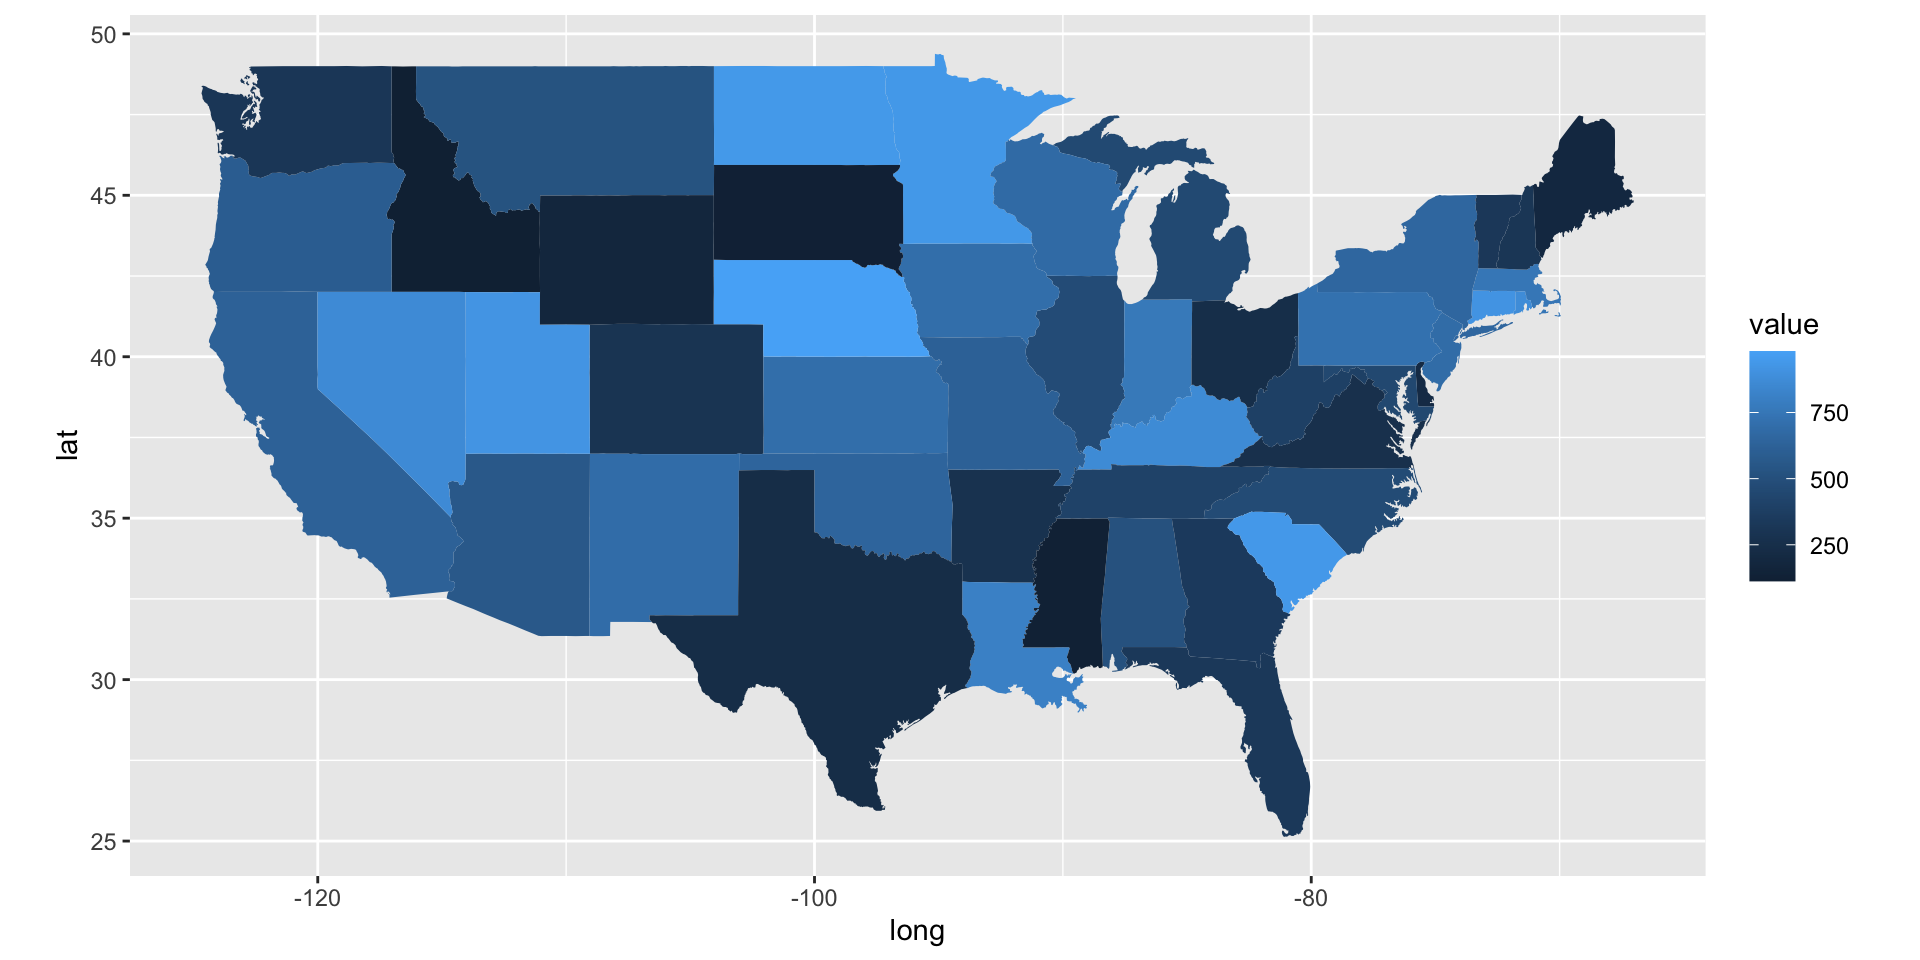
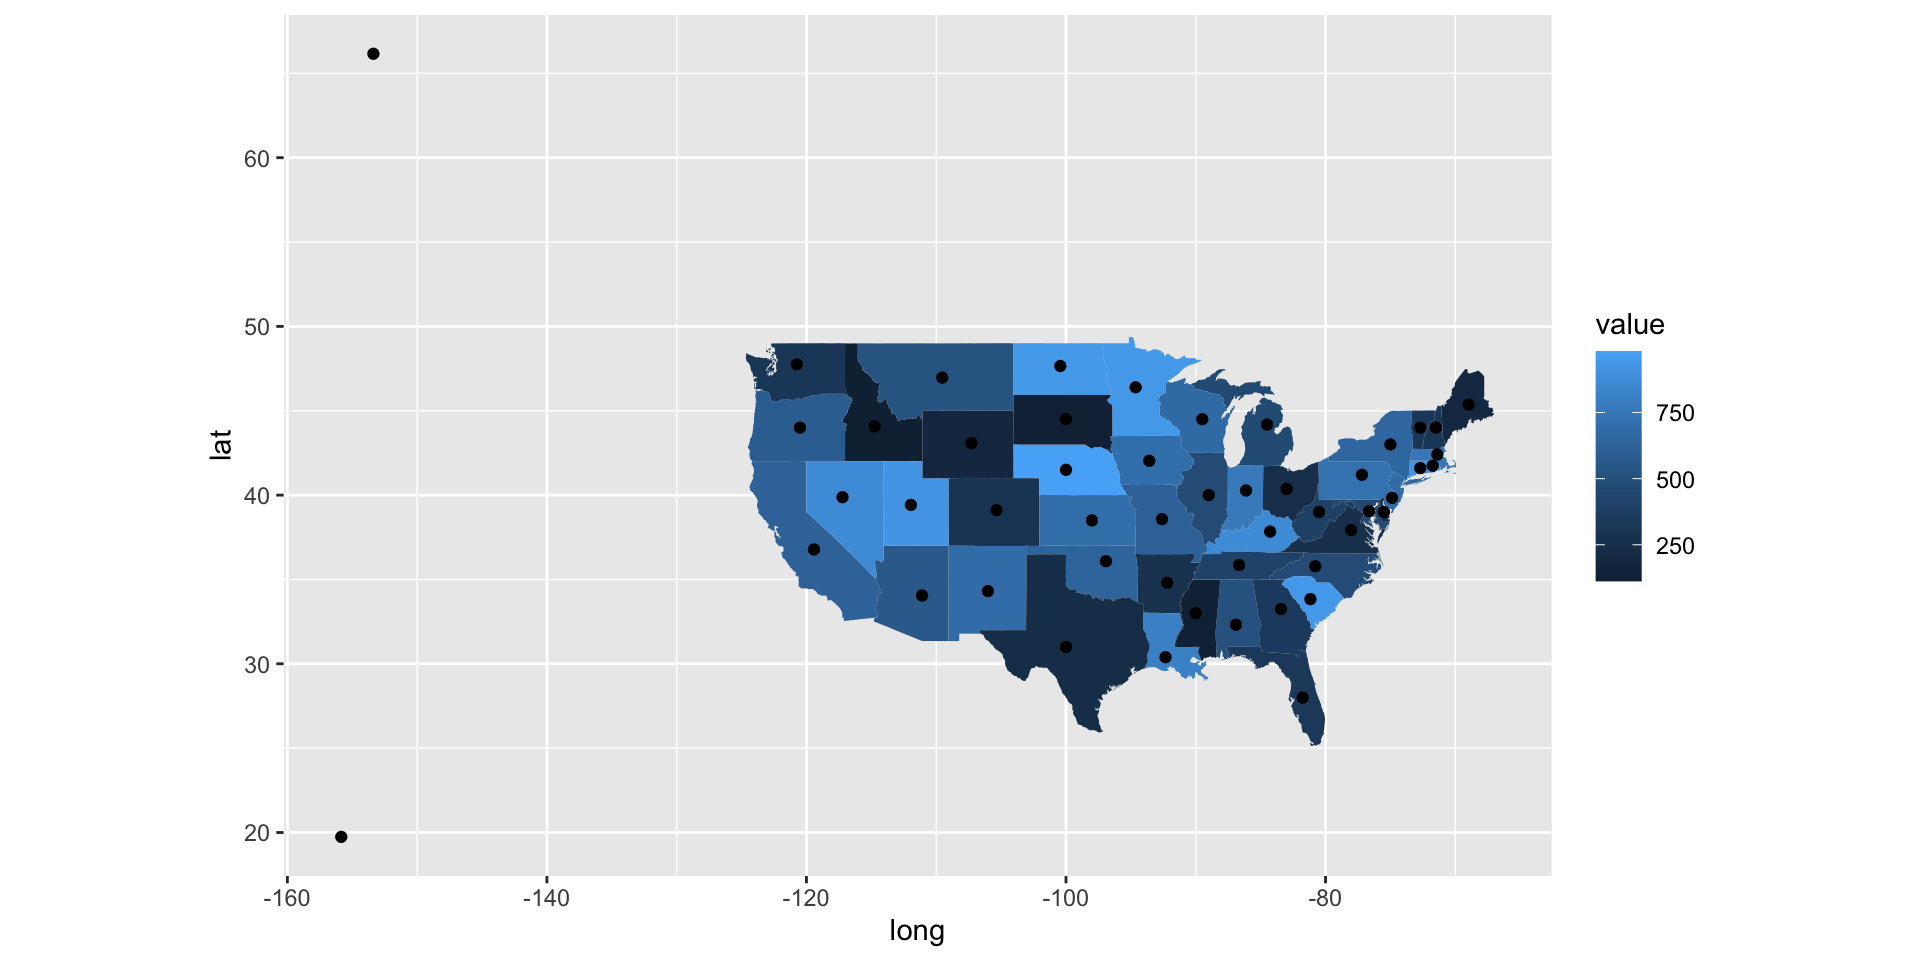
Update Week 13

diff --git a/week-13/slides.html b/week-13/slides.html
@@ -878,20 +878,9 @@ Projected CRS: NAD83(HARN) / Tennessee (ftUS)</code></pre>
 <img data-src="slides_files/figure-revealjs/unnamed-chunk-23-1.png" class="quarto-figure quarto-figure-center r-stretch" width="960"></section>
 <section id="joining-data-with-longlat-data-2" class="slide level2">
 <h2>Joining data with long/lat data</h2>
-<p>We can plot the world using <code>geom_polygon()</code>:</p>
-<div class="cell" data-layout-align="center">
-<div class="sourceCode cell-code" id="cb27"><pre class="sourceCode numberSource r number-lines code-with-copy"><code class="sourceCode r"><span id="cb27-1"><a href=""></a><span class="fu">ggplot</span>(world_map, <span class="fu">aes</span>(<span class="at">x =</span> long, <span class="at">y =</span> lat, <span class="at">group =</span> group)) <span class="sc">+</span></span>
-<span id="cb27-2"><a href=""></a>  <span class="fu">geom_polygon</span>() <span class="sc">+</span></span>
-<span id="cb27-3"><a href=""></a>  <span class="fu">coord_quickmap</span>() <span class="sc">+</span></span>
-<span id="cb27-4"><a href=""></a>  <span class="fu">theme</span>(<span class="at">legend.position =</span> <span class="st">"none"</span>)</span></code><button title="Copy to Clipboard" class="code-copy-button"><i class="bi"></i></button></pre></div>
-
-</div>
-<img data-src="slides_files/figure-revealjs/unnamed-chunk-24-1.png" class="quarto-figure quarto-figure-center r-stretch" width="960"></section>
-<section id="joining-data-with-longlat-data-3" class="slide level2">
-<h2>Joining data with long/lat data</h2>
 <p>Now, we have a dataset called <code>regions_data</code> with corresponding data:</p>
 <div class="cell" data-layout-align="center">
-<div class="sourceCode cell-code" id="cb28"><pre class="sourceCode numberSource r number-lines code-with-copy"><code class="sourceCode r"><span id="cb28-1"><a href=""></a><span class="fu">head</span>(regions_data)</span></code><button title="Copy to Clipboard" class="code-copy-button"><i class="bi"></i></button></pre></div>
+<div class="sourceCode cell-code" id="cb27"><pre class="sourceCode numberSource r number-lines code-with-copy"><code class="sourceCode r"><span id="cb27-1"><a href=""></a><span class="fu">head</span>(regions_data)</span></code><button title="Copy to Clipboard" class="code-copy-button"><i class="bi"></i></button></pre></div>
 <div class="cell-output cell-output-stdout">
 <pre><code>       region value
 1       Aruba   514
@@ -903,31 +892,31 @@ Projected CRS: NAD83(HARN) / Tennessee (ftUS)</code></pre>
 </div>
 </div>
 </section>
-<section id="joining-data-with-longlat-data-4" class="slide level2">
+<section id="joining-data-with-longlat-data-3" class="slide level2">
 <h2>Joining data with long/lat data</h2>
 <p>There are various ways of joining different datasets together. One common type is a left join.</p>
 <blockquote>
 <p>Keep all rows from <code>x</code>, and all columns from <code>x</code> and <code>y</code>. Rows in <code>x</code> with no match in <code>y</code> will have <code>NA</code> values in the new columns.</p>
 </blockquote>
 <div class="cell" data-layout-align="center">
-<div class="sourceCode cell-code" id="cb30"><pre class="sourceCode numberSource r number-lines code-with-copy"><code class="sourceCode r"><span id="cb30-1"><a href=""></a>knitr<span class="sc">::</span><span class="fu">include_graphics</span>(<span class="st">"left-join.gif"</span>)</span></code><button title="Copy to Clipboard" class="code-copy-button"><i class="bi"></i></button></pre></div>
+<div class="sourceCode cell-code" id="cb29"><pre class="sourceCode numberSource r number-lines code-with-copy"><code class="sourceCode r"><span id="cb29-1"><a href=""></a>knitr<span class="sc">::</span><span class="fu">include_graphics</span>(<span class="st">"left-join.gif"</span>)</span></code><button title="Copy to Clipboard" class="code-copy-button"><i class="bi"></i></button></pre></div>
 
 </div>
 <img data-src="left-join.gif" class="quarto-figure quarto-figure-center r-stretch" style="width:60.0%"></section>
-<section id="joining-data-with-longlat-data-5" class="slide level2">
+<section id="joining-data-with-longlat-data-4" class="slide level2">
 <h2>Joining data with long/lat data</h2>
 <p>We can join the data based on their common key (<code>region</code>) using dplyr’s <code>left_join()</code></p>
 <p>Syntax:</p>
 <div class="cell" data-layout-align="center">
-<div class="sourceCode cell-code" id="cb31"><pre class="sourceCode numberSource r number-lines code-with-copy"><code class="sourceCode r"><span id="cb31-1"><a href=""></a><span class="fu">left_join</span>(x, y, <span class="at">by =</span> <span class="st">"key"</span>)</span></code><button title="Copy to Clipboard" class="code-copy-button"><i class="bi"></i></button></pre></div>
+<div class="sourceCode cell-code" id="cb30"><pre class="sourceCode numberSource r number-lines code-with-copy"><code class="sourceCode r"><span id="cb30-1"><a href=""></a><span class="fu">left_join</span>(x, y, <span class="at">by =</span> <span class="st">"key"</span>)</span></code><button title="Copy to Clipboard" class="code-copy-button"><i class="bi"></i></button></pre></div>
 </div>
 </section>
-<section id="joining-data-with-longlat-data-6" class="slide level2">
+<section id="joining-data-with-longlat-data-5" class="slide level2">
 <h2>Joining data with long/lat data</h2>
 <p>This is how you join the <code>world_map</code> and <code>regions_data</code> together:</p>
 <div class="cell" data-layout-align="center">
-<div class="sourceCode cell-code" id="cb32"><pre class="sourceCode numberSource r number-lines code-with-copy"><code class="sourceCode r"><span id="cb32-1"><a href=""></a>joined_data <span class="ot">&lt;-</span> <span class="fu">left_join</span>(world_map, regions_data, <span class="at">by =</span> <span class="st">"region"</span>)</span>
-<span id="cb32-2"><a href=""></a>joined_data</span></code><button title="Copy to Clipboard" class="code-copy-button"><i class="bi"></i></button></pre></div>
+<div class="sourceCode cell-code" id="cb31"><pre class="sourceCode numberSource r number-lines code-with-copy"><code class="sourceCode r"><span id="cb31-1"><a href=""></a>joined_world_data <span class="ot">&lt;-</span> <span class="fu">left_join</span>(world_map, regions_data, <span class="at">by =</span> <span class="st">"region"</span>)</span>
+<span id="cb31-2"><a href=""></a>joined_world_data</span></code><button title="Copy to Clipboard" class="code-copy-button"><i class="bi"></i></button></pre></div>
 <div class="cell-output cell-output-stdout">
 <pre><code>               long           lat group order
 1      -69.89912415  12.452001572     1     1
@@ -29505,19 +29494,19 @@ Projected CRS: NAD83(HARN) / Tennessee (ftUS)</code></pre>
 </div>
 </div>
 </section>
-<section id="joining-data-with-longlat-data-7" class="slide level2">
+<section id="joining-data-with-longlat-data-6" class="slide level2">
 <h2>Joining data with long/lat data</h2>
 <p>Add the data as an aesthetic in your ggplot object with <code>fill()</code></p>
 <ul>
 <li>Be sure to include in your <code>aes()</code> since it’s referring to data</li>
 </ul>
 <div class="cell" data-layout-align="center">
-<div class="sourceCode cell-code" id="cb34"><pre class="sourceCode numberSource r number-lines code-with-copy"><code class="sourceCode r"><span id="cb34-1"><a href=""></a><span class="fu">ggplot</span>(joined_data, <span class="fu">aes</span>(<span class="at">x =</span> long, <span class="at">y =</span> lat, <span class="at">group =</span> group, <span class="at">fill =</span> value)) <span class="sc">+</span></span>
-<span id="cb34-2"><a href=""></a>  <span class="fu">geom_polygon</span>() <span class="sc">+</span></span>
-<span id="cb34-3"><a href=""></a>  <span class="fu">coord_quickmap</span>()</span></code><button title="Copy to Clipboard" class="code-copy-button"><i class="bi"></i></button></pre></div>
+<div class="sourceCode cell-code" id="cb33"><pre class="sourceCode numberSource r number-lines code-with-copy"><code class="sourceCode r"><span id="cb33-1"><a href=""></a><span class="fu">ggplot</span>(joined_world_data, <span class="fu">aes</span>(<span class="at">x =</span> long, <span class="at">y =</span> lat, <span class="at">group =</span> group, <span class="at">fill =</span> value)) <span class="sc">+</span></span>
+<span id="cb33-2"><a href=""></a>  <span class="fu">geom_polygon</span>() <span class="sc">+</span></span>
+<span id="cb33-3"><a href=""></a>  <span class="fu">coord_quickmap</span>()</span></code><button title="Copy to Clipboard" class="code-copy-button"><i class="bi"></i></button></pre></div>
 
 </div>
-<img data-src="slides_files/figure-revealjs/unnamed-chunk-30-1.png" class="quarto-figure quarto-figure-center r-stretch" width="960"></section></section>
+<img data-src="slides_files/figure-revealjs/unnamed-chunk-29-1.png" class="quarto-figure quarto-figure-center r-stretch" width="960"></section></section>
 <section>
 <section id="layering-geoms" class="title-slide slide level1 center">
 <h1>Layering geoms</h1>
@@ -29527,19 +29516,17 @@ Projected CRS: NAD83(HARN) / Tennessee (ftUS)</code></pre>
 <h2>Long/lat dataset</h2>
 <p>Let’s say we have another dataset with longitude/latitude data for different points:</p>
 <div class="cell" data-layout-align="center">
-<div class="sourceCode cell-code" id="cb35"><pre class="sourceCode numberSource r number-lines code-with-copy"><code class="sourceCode r"><span id="cb35-1"><a href=""></a><span class="fu">head</span>(points_data)</span></code><button title="Copy to Clipboard" class="code-copy-button"><i class="bi"></i></button></pre></div>
+<div class="sourceCode cell-code" id="cb34"><pre class="sourceCode numberSource r number-lines code-with-copy"><code class="sourceCode r"><span id="cb34-1"><a href=""></a><span class="fu">head</span>(state_map)</span></code><button title="Copy to Clipboard" class="code-copy-button"><i class="bi"></i></button></pre></div>
 <div class="cell-output cell-output-stdout">
-<pre><code># A tibble: 6 × 3
-  Place.Name           Latitude Longitude
-  &lt;chr&gt;                   &lt;dbl&gt;     &lt;dbl&gt;
-1 Wisconsin, USA           44.5     -89.5
-2 West Virginia, USA       39       -80.5
-3 Vermont, USA             44       -72.7
-4 Texas, the USA           31      -100  
-5 South Dakota, the US     44.5    -100  
-6 Rhode Island, the US     41.7     -71.7</code></pre>
+<pre><code>       long      lat group order  region subregion
+1 -87.46201 30.38968     1     1 alabama      &lt;NA&gt;
+2 -87.48493 30.37249     1     2 alabama      &lt;NA&gt;
+3 -87.52503 30.37249     1     3 alabama      &lt;NA&gt;
+4 -87.53076 30.33239     1     4 alabama      &lt;NA&gt;
+5 -87.57087 30.32665     1     5 alabama      &lt;NA&gt;
+6 -87.58806 30.32665     1     6 alabama      &lt;NA&gt;</code></pre>
 </div>
-<div class="sourceCode cell-code" id="cb37"><pre class="sourceCode numberSource r number-lines code-with-copy"><code class="sourceCode r"><span id="cb37-1"><a href=""></a><span class="fu">head</span>(state_data)</span></code><button title="Copy to Clipboard" class="code-copy-button"><i class="bi"></i></button></pre></div>
+<div class="sourceCode cell-code" id="cb36"><pre class="sourceCode numberSource r number-lines code-with-copy"><code class="sourceCode r"><span id="cb36-1"><a href=""></a><span class="fu">head</span>(state_data)</span></code><button title="Copy to Clipboard" class="code-copy-button"><i class="bi"></i></button></pre></div>
 <div class="cell-output cell-output-stdout">
 <pre><code>        state value
 1     alabama   514
@@ -29554,39 +29541,39 @@ Projected CRS: NAD83(HARN) / Tennessee (ftUS)</code></pre>
 <section id="create-a-map-of-the-u.s." class="slide level2">
 <h2>Create a map of the U.S.</h2>
 <div class="cell" data-layout-align="center">
-<div class="sourceCode cell-code" id="cb39"><pre class="sourceCode numberSource r number-lines code-with-copy"><code class="sourceCode r"><span id="cb39-1"><a href=""></a>state_map <span class="ot">&lt;-</span> <span class="fu">map_data</span>(<span class="st">"state"</span>)</span>
-<span id="cb39-2"><a href=""></a></span>
-<span id="cb39-3"><a href=""></a>joined_data <span class="ot">&lt;-</span> <span class="fu">left_join</span>(state_map, state_data, <span class="fu">join_by</span>(<span class="st">"region"</span> <span class="sc">==</span> <span class="st">"state"</span>))</span></code><button title="Copy to Clipboard" class="code-copy-button"><i class="bi"></i></button></pre></div>
+<div class="sourceCode cell-code" id="cb38"><pre class="sourceCode numberSource r number-lines code-with-copy"><code class="sourceCode r"><span id="cb38-1"><a href=""></a>state_map <span class="ot">&lt;-</span> <span class="fu">map_data</span>(<span class="st">"state"</span>)</span>
+<span id="cb38-2"><a href=""></a></span>
+<span id="cb38-3"><a href=""></a>joined_state_data <span class="ot">&lt;-</span> <span class="fu">left_join</span>(state_map, state_data, <span class="fu">join_by</span>(<span class="st">"region"</span> <span class="sc">==</span> <span class="st">"state"</span>))</span></code><button title="Copy to Clipboard" class="code-copy-button"><i class="bi"></i></button></pre></div>
 </div>
 </section>
 <section id="create-a-choropleth-map-of-the-u.s." class="slide level2">
 <h2>Create a choropleth map of the U.S.</h2>
 <div class="cell" data-layout-align="center">
-<div class="sourceCode cell-code" id="cb40"><pre class="sourceCode numberSource r number-lines code-with-copy"><code class="sourceCode r"><span id="cb40-1"><a href=""></a><span class="fu">ggplot</span>(<span class="at">data =</span> joined_data) <span class="sc">+</span></span>
-<span id="cb40-2"><a href=""></a>  <span class="fu">geom_map</span>(<span class="at">map =</span> joined_data,</span>
+<div class="sourceCode cell-code" id="cb39"><pre class="sourceCode numberSource r number-lines code-with-copy"><code class="sourceCode r"><span id="cb39-1"><a href=""></a><span class="fu">ggplot</span>(<span class="at">data =</span> joined_state_data) <span class="sc">+</span></span>
+<span id="cb39-2"><a href=""></a>  <span class="fu">geom_map</span>(<span class="at">map =</span> joined_state_data,</span>
+<span id="cb39-3"><a href=""></a>           <span class="fu">aes</span>(<span class="at">x =</span> long,</span>
+<span id="cb39-4"><a href=""></a>               <span class="at">y =</span> lat,</span>
+<span id="cb39-5"><a href=""></a>               <span class="at">fill =</span> value,</span>
+<span id="cb39-6"><a href=""></a>               <span class="at">map_id =</span> region)) <span class="sc">+</span></span>
+<span id="cb39-7"><a href=""></a>    <span class="fu">coord_fixed</span>(<span class="fl">1.3</span>)</span></code><button title="Copy to Clipboard" class="code-copy-button"><i class="bi"></i></button></pre></div>
+
+</div>
+<img data-src="slides_files/figure-revealjs/unnamed-chunk-34-1.png" class="quarto-figure quarto-figure-center r-stretch" width="960"></section>
+<section id="adding-points-to-a-map" class="slide level2">
+<h2>Adding points to a map</h2>
+<div class="cell" data-layout-align="center">
+<div class="sourceCode cell-code" id="cb40"><pre class="sourceCode numberSource r number-lines code-with-copy"><code class="sourceCode r"><span id="cb40-1"><a href=""></a><span class="fu">ggplot</span>(<span class="at">data =</span> joined_state_data) <span class="sc">+</span></span>
+<span id="cb40-2"><a href=""></a>  <span class="fu">geom_map</span>(<span class="at">map =</span> joined_state_data,</span>
 <span id="cb40-3"><a href=""></a>           <span class="fu">aes</span>(<span class="at">x =</span> long,</span>
 <span id="cb40-4"><a href=""></a>               <span class="at">y =</span> lat,</span>
 <span id="cb40-5"><a href=""></a>               <span class="at">fill =</span> value,</span>
 <span id="cb40-6"><a href=""></a>               <span class="at">map_id =</span> region)) <span class="sc">+</span></span>
-<span id="cb40-7"><a href=""></a>    <span class="fu">coord_fixed</span>(<span class="fl">1.3</span>)</span></code><button title="Copy to Clipboard" class="code-copy-button"><i class="bi"></i></button></pre></div>
+<span id="cb40-7"><a href=""></a>    <span class="fu">coord_fixed</span>(<span class="fl">1.3</span>) <span class="sc">+</span></span>
+<span id="cb40-8"><a href=""></a>    <span class="fu">geom_point</span>(<span class="at">data =</span> points_data,</span>
+<span id="cb40-9"><a href=""></a>               <span class="fu">aes</span>(<span class="at">x =</span> Longitude, <span class="at">y =</span> Latitude))</span></code><button title="Copy to Clipboard" class="code-copy-button"><i class="bi"></i></button></pre></div>
 
 </div>
-<img data-src="slides_files/figure-revealjs/unnamed-chunk-35-1.png" class="quarto-figure quarto-figure-center r-stretch" width="960"></section>
-<section id="adding-points-to-a-map" class="slide level2">
-<h2>Adding points to a map</h2>
-<div class="cell" data-layout-align="center">
-<div class="sourceCode cell-code" id="cb41"><pre class="sourceCode numberSource r number-lines code-with-copy"><code class="sourceCode r"><span id="cb41-1"><a href=""></a><span class="fu">ggplot</span>(<span class="at">data =</span> joined_data) <span class="sc">+</span></span>
-<span id="cb41-2"><a href=""></a>  <span class="fu">geom_map</span>(<span class="at">map =</span> joined_data,</span>
-<span id="cb41-3"><a href=""></a>           <span class="fu">aes</span>(<span class="at">x =</span> long,</span>
-<span id="cb41-4"><a href=""></a>               <span class="at">y =</span> lat,</span>
-<span id="cb41-5"><a href=""></a>               <span class="at">fill =</span> value,</span>
-<span id="cb41-6"><a href=""></a>               <span class="at">map_id =</span> region)) <span class="sc">+</span></span>
-<span id="cb41-7"><a href=""></a>    <span class="fu">coord_fixed</span>(<span class="fl">1.3</span>) <span class="sc">+</span></span>
-<span id="cb41-8"><a href=""></a>    <span class="fu">geom_point</span>(<span class="at">data =</span> points_data,</span>
-<span id="cb41-9"><a href=""></a>               <span class="fu">aes</span>(<span class="at">x =</span> Longitude, <span class="at">y =</span> Latitude))</span></code><button title="Copy to Clipboard" class="code-copy-button"><i class="bi"></i></button></pre></div>
-
-</div>
-<img data-src="slides_files/figure-revealjs/unnamed-chunk-36-1.png" class="quarto-figure quarto-figure-center r-stretch" width="960"></section></section>
+<img data-src="slides_files/figure-revealjs/unnamed-chunk-35-1.png" class="quarto-figure quarto-figure-center r-stretch" width="960"></section></section>
 <section>
 <section id="wrap-up" class="title-slide slide level1 center">
 <h1>Wrap up</h1>
